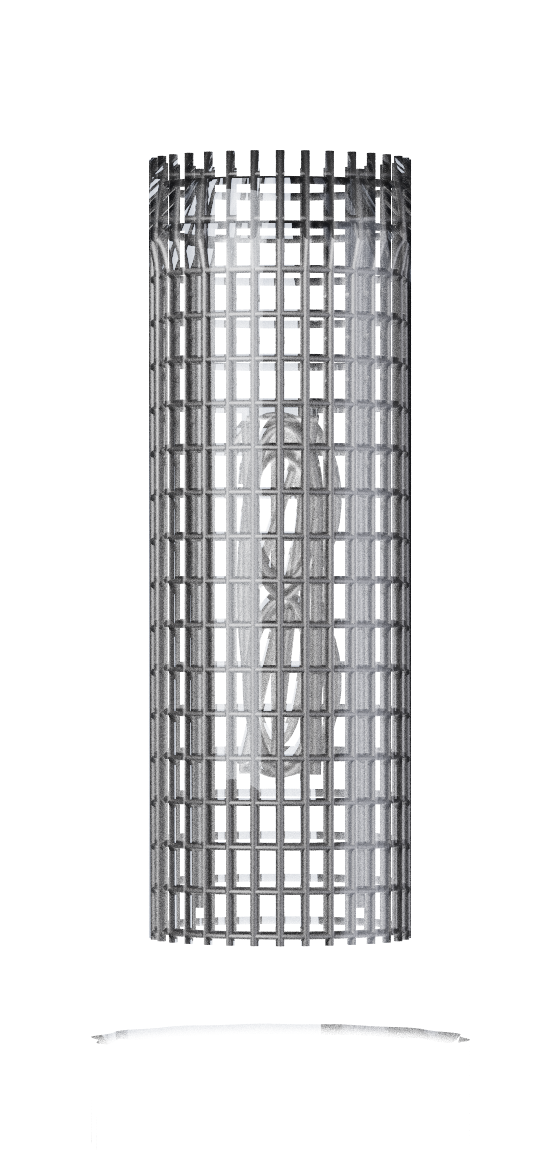
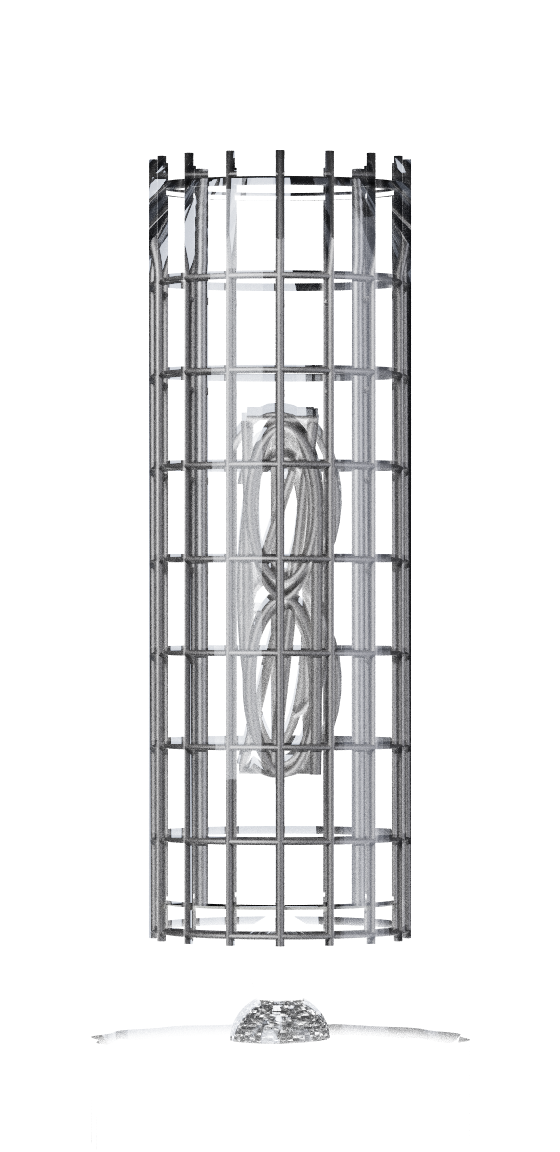
[greeter] Sparser, thinner anode cage, plus the mica spacers and the stem
По просьбе: сетка вдвое реже и вдвое тоньше — 16 проволок радиусом 0.035 мм и
9 колец (было 32 по 0.07) — и добавлено то, чего не хватало нутру:

- слюдяные шайбы (два тонких диска 0.24 мм, на которых висит стек катодов);
- стеклянный штенгель (штабик) с выводами внутри цоколя.

Спрайт перерендерен целиком (beauty 1024 spp + coverage-маски + glass pass).

Changed region(s): [[0.2429, 0.125, 0.7286, 0.8438], [0.3946, 0.8438, 0.6071, 0.9062]]

diff --git a/scripts/dev/nixie-sprite/render_tube.py b/scripts/dev/nixie-sprite/render_tube.py
@@ -203,14 +203,14 @@ def build():
     shapes["glass"] = (verts, faces)
     # 2. the anode cage: 24 vertical wires + 12 rings
     wires = []
-    for k in range(32):
-        a = 2 * math.pi * k / 32
+    for k in range(16):
+        a = 2 * math.pi * k / 16
         x, z = RT * math.sin(a), RT * math.cos(a)
         wires.append(
             ([(x, -H / 2 + BASE * 0.55, z), (x, H / 2 - 3.0, z)], 0.22)
         )
-    for k in range(18):
-        y = -H / 2 + BASE * 0.6 + (H - BASE * 0.6 - 4.5) * k / 17
+    for k in range(9):
+        y = -H / 2 + BASE * 0.6 + (H - BASE * 0.6 - 4.5) * k / 8
         ring = [
             (
                 RT * math.sin(2 * math.pi * t / 64),
@@ -244,6 +244,36 @@ def build():
                 0.35,
             )
         )
+    # 4b. the mica spacers: thin translucent discs the stack hangs from
+    for y in (H / 2 - 4.6, -H / 2 + BASE * 0.62 + 1.2):
+        disc = []
+        for k in range(49):
+            aa = 2 * math.pi * k / 48
+            disc.append(
+                (RT * 0.94 * math.cos(aa), y, RT * 0.94 * math.sin(aa))
+            )
+        verts, faces = [], []
+        for k, (dx, dy, dz) in enumerate(disc):
+            verts.append((dx, dy - 0.12, dz))
+            verts.append((dx, dy + 0.12, dz))
+        for k in range(48):
+            a0, b0 = 2 * k, 2 * k + 1
+            a1, b1 = 2 * k + 2, 2 * k + 3
+            faces += [(a0, b0, b1), (a0, b1, a1)]
+        shapes[f"mica{int(y)}"] = (verts, faces)
+    # 4c. the stem: the pinched glass foot inside the collar
+    stem = []
+    for k in range(33):
+        aa = -1.0 + 2.0 * k / 32
+        r = 2.6 * math.sqrt(max(0.0, 1.0 - (aa * 0.9) ** 2))
+        stem.append((r, -H / 2 + BASE * 0.05 + 2.2 * abs(aa), 0.0))
+    sverts, sfaces = revolve(
+        [(0.0, -H / 2 + BASE * 0.7), (2.5, -H / 2 + BASE * 0.55)]
+        + [(r, y) for (r, y, _) in stem]
+        + [(0.0, -H / 2 + BASE * 0.05)],
+        48,
+    )
+    shapes["stem"] = (sverts, sfaces)
     # 5. the collar: crimped metal with flutes, closed at the bottom
     cprof = [
         (R, -H / 2),
@@ -305,7 +335,23 @@ def build_scene(
     os.makedirs("/tmp/ms/mesh", exist_ok=True)
     for name, (v, f) in shapes.items():
         ply = emit_ply(v, f, f"/tmp/ms/mesh/{name}.ply")
-        bsdf = {"glass": scene["glass"], "collar": scene["collarM"]}[name]
+        if name == "glass":
+            bsdf = {"type": "dielectric", "int_ior": 1.52, "ext_ior": 1.0}
+        elif name == "collar":
+            bsdf = {
+                "type": "roughconductor",
+                "alpha": 0.14,
+                "distribution": "ggx",
+                "eta": {"type": "rgb", "value": [2.2, 2.1, 2.0]},
+                "k": {"type": "rgb", "value": [3.3, 3.1, 2.9]},
+            }
+        elif name == "stem":
+            bsdf = {"type": "dielectric", "int_ior": 1.52, "ext_ior": 1.0}
+        else:  # the mica spacers
+            bsdf = {
+                "type": "diffuse",
+                "reflectance": {"type": "rgb", "value": [0.82, 0.80, 0.72]},
+            }
         scene[name] = {
             "type": "ply",
             "filename": ply,
